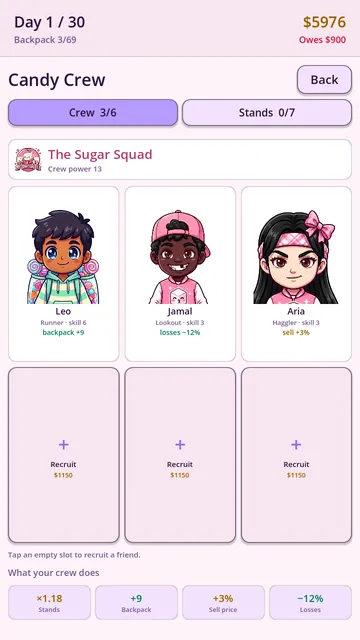
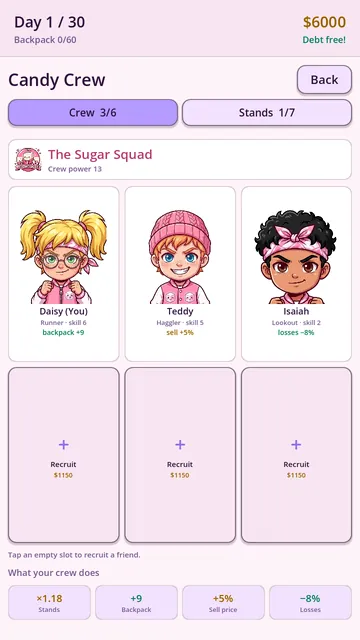
Recreate the crew thumbnail without a character the game doesn't have
The crew shot showed "Leo", who is not in data/crew_members.json — the game's
actual roster is 36 kids across six crews, and he is in none of them. The shot
came from scripts/tools/_CrewShot.gd, which started a real Sugar Squad run and
then overwrote crew[0] with a hand-written Leo to force the one avatar that had
delivered art.

Regenerated from the game with that override removed, so crew[0] is whatever
_seed_player() builds from the chosen crew's roster. The thumbnail now shows
Daisy (You), Teddy and Isaiah — all real Sugar Squad members — with their real
roles and skills. Alt text updated to name them.

diff --git a/index.html b/index.html
@@ -242,7 +242,7 @@
       </div>
       <div class="gallery">
         <img class="gthumb light" tabindex="0" role="button" src="shots/cw-market.webp" width="360" height="640" loading="lazy" alt="Buying candy at the Park sweet cart">
-        <img class="gthumb light" tabindex="0" role="button" src="shots/cw-crew.webp" width="360" height="640" loading="lazy" alt="The Candy Crew — recruit friends with their own skills">
+        <img class="gthumb light" tabindex="0" role="button" src="shots/cw-crew.webp" width="360" height="640" loading="lazy" alt="The Candy Crew — Daisy, Teddy and Isaiah of the Sugar Squad, each with their own role">
         <img class="gthumb light" tabindex="0" role="button" src="shots/cw-selloff.webp" width="360" height="640" loading="lazy" alt="A sell-off against a rival crew">
         <img class="gthumb light" tabindex="0" role="button" src="shots/cw-coinshop.webp" width="360" height="640" loading="lazy" alt="The Coin Shop — permanent unlocks">
         <img class="gthumb light" tabindex="0" role="button" src="shots/cw-town.webp" width="360" height="640" loading="lazy" alt="The town map — seven hangouts, each with its own prices">
